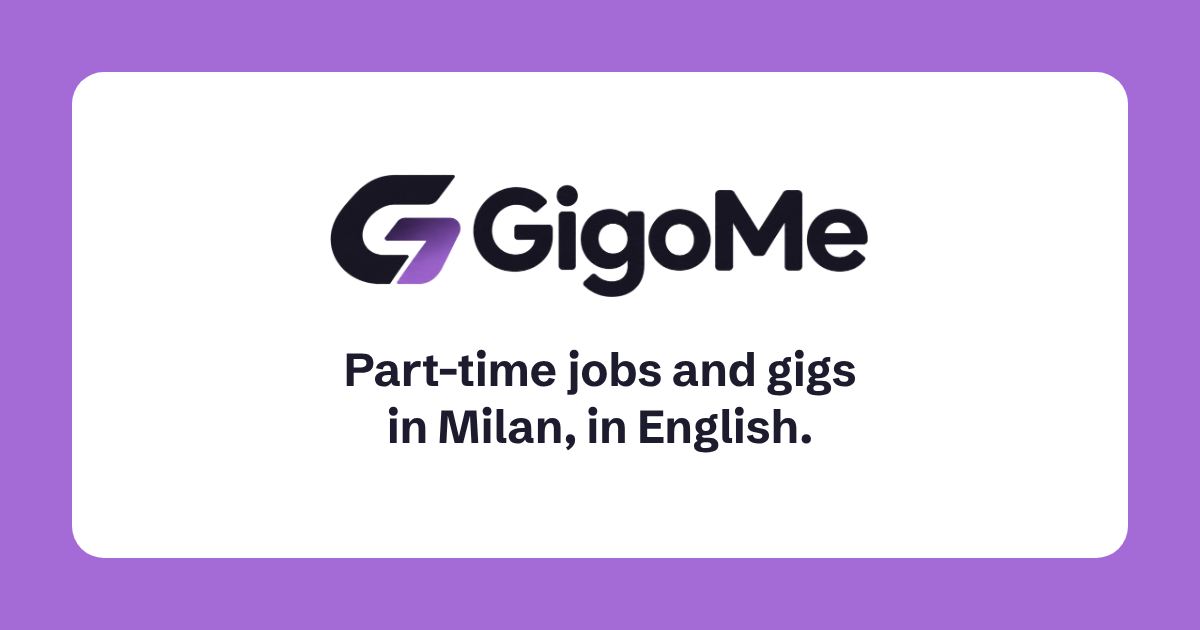
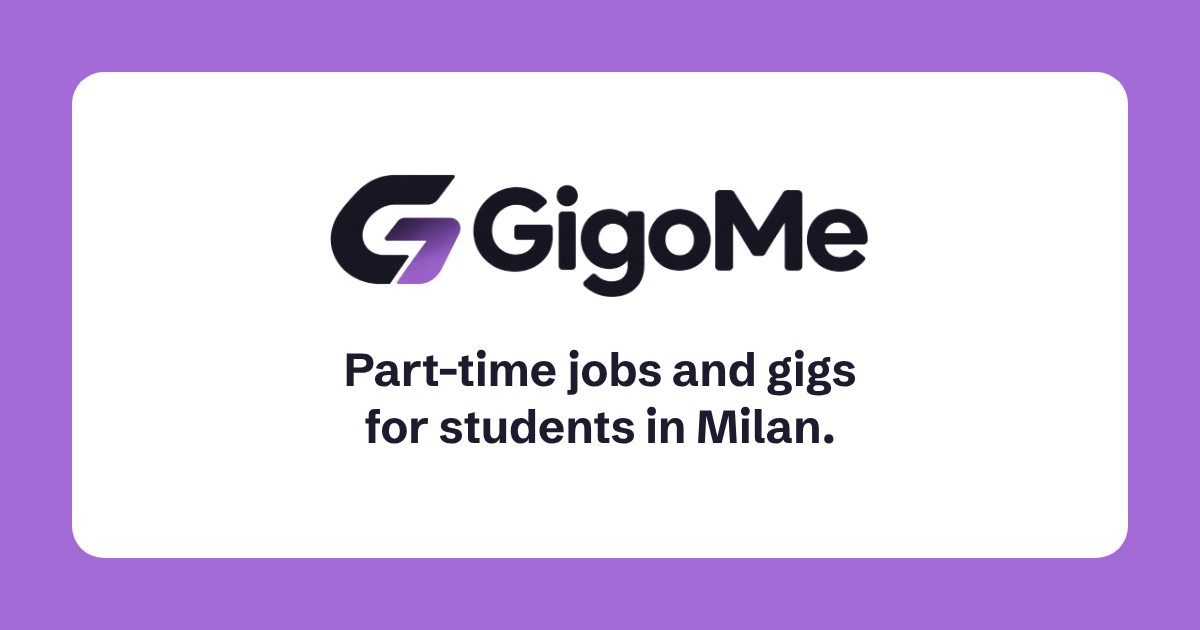
Positioning: GigoMe is for all university students in Milan
GigoMe is for every university student in Milan, not only international
ones or people who don't speak Italian. Jobs that need no Italian stay a
highlighted filter and selling point ("No Italian needed" in the home page
search and on /jobs), not the definition of the platform.

- Tagline: "Part-time jobs and gigs for students in Milan." (home page
  headline, titles, meta and Open Graph tags, the share image, rebuilt
  with scripts/build-og-image.mjs).
- Home page subline, "How it works" step, /how-it-works lead, /jobs lead,
  company page descriptions and search-engine texts no longer say
  "international students" or "in English".
- /employers: "Reach university students in Milan", with no mention of
  language skills.
- Italian translations updated in step; docs/i18n/review-it.csv
  regenerated.
- README: who GigoMe is for, the "Access scope" question marked decided,
  and employers list jobs from their dashboard (not by email). CLAUDE.md:
  the positioning rule and the new tagline.

The legal texts are unchanged.

Claude-Session: https://claude.ai/code/session_01MqGBGxFgcxpd2knq1Qs72a

Changed region(s): [[0.3083, 0.6333, 0.7092, 0.7238]]

diff --git a/tests/e2e/launch.test.js b/tests/e2e/launch.test.js
@@ -59,11 +59,11 @@ async function downloadJson(p, click) {
     };
     await p.goto(E + '/'); await p.waitForTimeout(500);
     let m = await meta();
-    ok(m.title === 'GigoMe: part-time jobs and gigs in Milan, in English' && m.canonical === 'https://gigome.org/' && !m.robots, 'home: title and canonical: ' + JSON.stringify(m));
+    ok(m.title === 'GigoMe: part-time jobs and gigs for students in Milan' && m.canonical === 'https://gigome.org/' && !m.robots, 'home: title and canonical: ' + JSON.stringify(m));
     ok(m.site.length === 1 && JSON.stringify(JSON.parse(m.site[0])) === JSON.stringify({ '@context': 'https://schema.org', '@type': 'WebSite', name: 'GigoMe', url: 'https://gigome.org/' }) && m.ld.length === 0,
       'home: WebSite data with the name GigoMe and https://gigome.org/: ' + JSON.stringify(m.site));
     await p.goto(E + '/jobs?area=3'); await p.waitForSelector('.job-list .role-row'); m = await meta();
-    ok(m.title === 'Jobs in Milan in English | GigoMe' && m.canonical === 'https://gigome.org/jobs' && /Filter by area/.test(m.desc), '/jobs: title, description, canonical without the filters: ' + JSON.stringify(m));
+    ok(m.title === 'Part-time jobs for students in Milan | GigoMe' && m.canonical === 'https://gigome.org/jobs' && /Filter by area/.test(m.desc), '/jobs: title, description, canonical without the filters: ' + JSON.stringify(m));
     await p.goto(E + '/jobs/' + ID(1)); await p.waitForSelector('.facts'); await p.waitForTimeout(300); m = await meta();
     ok(m.title === 'Weekend barista at Nebbia Coffee Bar | GigoMe' && /^Weekend barista at Nebbia Coffee Bar, Milan\. Serve coffee/.test(m.desc), 'job page: title and description: ' + JSON.stringify(m));
     ok(m.ld.length === 1 && m.site.length === 1, 'job page: one JobPosting block, and the WebSite block once');
@@ -79,7 +79,7 @@ async function downloadJson(p, click) {
     await p.goto(E + '/companies/' + NEBBIA.id); await p.waitForSelector('.company-page'); await p.waitForTimeout(300); m = await meta();
     ok(m.title === 'Nebbia Coffee Bar: jobs in Milan | GigoMe' && m.ld.length === 0, 'company page: title, no job data left over: ' + JSON.stringify(m.title));
     await p.goto(E + '/employers'); await p.waitForTimeout(300); m = await meta();
-    ok(m.title === 'Hire international students in Milan | GigoMe', 'employers: title');
+    ok(m.title === 'Reach university students in Milan | GigoMe', 'employers: title');
     ok(m.desc.startsWith('Post paid part-time jobs and gigs') && (await p.innerText('.employers-intro .lead')).includes("We don't list internships or unpaid roles."), 'employers: paid part-time jobs and gigs only, said up front');
     for (const path of ['/', '/jobs']) {
       await p.goto(E + path); await p.waitForTimeout(400); m = await meta();

diff --git a/index.html b/index.html
@@ -5,23 +5,23 @@
 <meta name="viewport" content="width=device-width, initial-scale=1">
 <meta name="theme-color" content="#FFFFFF">
 <title>GigoMe</title>
-<meta name="description" content="Part-time jobs and gigs in Milan, in English. A free, student-run job board for international students.">
+<meta name="description" content="Part-time jobs and gigs for students in Milan. A free, student-run job board for university students, with a filter for jobs that need no Italian.">
 <link rel="icon" href="/favicon.ico" sizes="16x16 32x32 48x48">
 <link rel="icon" type="image/png" sizes="192x192" href="/favicon-192.png">
 <link rel="apple-touch-icon" href="/apple-touch-icon.png">
 <meta property="og:type" content="website">
 <meta property="og:site_name" content="GigoMe">
-<meta property="og:title" content="GigoMe: part-time jobs and gigs in Milan, in English">
-<meta property="og:description" content="A free, student-run job board for international students in Milan. Jobs you can do without fluent Italian.">
+<meta property="og:title" content="GigoMe: part-time jobs and gigs for students in Milan">
+<meta property="og:description" content="A free, student-run job board for university students in Milan. No Italian? Filter for jobs where none is needed.">
 <meta property="og:image" content="https://gigome.org/og-image.png">
 <meta property="og:image:width" content="1200">
 <meta property="og:image:height" content="630">
-<meta property="og:image:alt" content="The GigoMe logo with the line: Part-time jobs and gigs in Milan, in English.">
+<meta property="og:image:alt" content="The GigoMe logo with the line: Part-time jobs and gigs for students in Milan.">
 <meta name="twitter:card" content="summary_large_image">
-<meta name="twitter:title" content="GigoMe: part-time jobs and gigs in Milan, in English">
-<meta name="twitter:description" content="A free, student-run job board for international students in Milan. Jobs you can do without fluent Italian.">
+<meta name="twitter:title" content="GigoMe: part-time jobs and gigs for students in Milan">
+<meta name="twitter:description" content="A free, student-run job board for university students in Milan. No Italian? Filter for jobs where none is needed.">
 <meta name="twitter:image" content="https://gigome.org/og-image.png">
-<meta name="twitter:image:alt" content="The GigoMe logo with the line: Part-time jobs and gigs in Milan, in English.">
+<meta name="twitter:image:alt" content="The GigoMe logo with the line: Part-time jobs and gigs for students in Milan.">
 <script type="application/ld+json">{"@context":"https://schema.org","@type":"WebSite","name":"GigoMe","url":"https://gigome.org/"}</script>
 </head>
 <body data-page="home">

diff --git a/tests/e2e/site.test.js b/tests/e2e/site.test.js
@@ -14,7 +14,7 @@ let fails = 0; const ok = (c, m) => { console.log((c ? 'PASS ' : 'FAIL ') + m); 
     await p.goto(ENV + '/'); await p.waitForTimeout(700);
     const page = await txt(p, 'body');
     ok(await p.locator('.protobar, #map-stage, #jump, #reset-demo, .map-pin').count() === 0 && !/Demo\. Sample data|Jump to|Reset|on the map|★/.test(page), 'no demo bar, map, Jump to, Reset or ratings');
-    ok((await txt(p, 'h1')) === 'Part-time jobs and gigs in Milan, in English.' && (await txt(p, '.hero-lead')) === "For international students who don't speak fluent Italian. Free for students, always.", 'hero headline and subline unchanged');
+    ok((await txt(p, 'h1')) === 'Part-time jobs and gigs for students in Milan.' && (await txt(p, '.hero-lead')) === 'For all university students in Milan, whether or not you speak Italian. Free for students, always.', 'hero headline and subline unchanged');
     ok(await p.locator('.hero select#home-area').count() === 1 && await p.isChecked('.hero input[type=checkbox]') && (await txt(p, '.hero button')) === 'Search jobs', 'hero: keyword, area, "No Italian needed" (on), "Search jobs"');
     ok((await titles(p)).join('|') === 'Weekend barista|Event host|English tutor|Finance assistant|Social media helper' && log.jobs.some((q) => q.includes('limit=5')), 'Newest jobs: the 5 most recently published live jobs, asked for with limit=5: ' + (await titles(p)).join('|'));
     ok(log.jobs.some((q) => new URLSearchParams(q).get('order') === 'is_example.asc,published_at.desc.nullslast,created_at.desc'), 'real listings before examples, then newest = published most recently, then written most recently: ' + log.jobs.map((q) => new URLSearchParams(q).get('order')).join(' '));

diff --git a/README.md b/README.md
@@ -1,31 +1,36 @@
 # GigoMe
 
-**Part-time jobs and gigs in Milan, in English.**
+**Part-time jobs and gigs for students in Milan.**
 
-GigoMe is a job discovery platform for international and English-speaking
-university students in Milan. Employers list English-friendly roles, students
-log in with their university email and apply directly with the employer. It is a
-student-run project built by the GigoMe Venture Studio team. Free for
-students. No monetisation before the platform is useful.
+GigoMe is a job discovery platform for university students in Milan, from
+any university, whether or not they speak Italian. Jobs that need no
+Italian are a highlighted filter ("No Italian needed"), not the limit of
+the platform. Students log in with any email (a university email verifies
+them) and apply directly with the employer. It is a student-run project
+built by the GigoMe Venture Studio team. Free for students. No
+monetisation before the platform is useful.
 
 **Website:** https://gigome.org
 
 ## The problem
 
-International students in Milan often struggle to find flexible,
-student-friendly work. Many opportunities require Italian, and the ones that
-don't are scattered across informal channels: group chats, word of mouth and
-notice boards. At the same time, small businesses that would happily hire an
-English-speaking student have no simple way to reach them.
+Students in Milan often struggle to find flexible, student-friendly work
+that fits around their studies. Opportunities are scattered across
+informal channels: group chats, word of mouth and notice boards. For
+international students it's harder still, since many jobs require
+Italian and the ones that don't are hard to spot. At the same time,
+small businesses that would happily hire a student have no simple way to
+reach them.
 
 ## What GigoMe does
 
-- **For students:** browse paid part-time jobs, gigs and tutoring that
-  don't need Italian, filtered by keyword, job type, remote work, Italian
-  level and hours. No internships and no unpaid roles.
+- **For students:** browse paid part-time jobs, gigs and tutoring,
+  filtered by keyword, area, job type, schedule, pay, hours and how much
+  Italian is needed (including "No Italian needed"). No internships and
+  no unpaid roles.
 - **For employers:** businesses and private people (a family looking for a
-  tutor, someone who needs a dog walker) list roles for free by writing to
-  hello@gigome.org.
+  tutor, someone who needs a dog walker) list roles for free from their
+  own dashboard; a person reviews every company and job first.
 - **Direct contact:** students apply on the employer's site or by email.
   Contracts and pay are agreed directly between them, outside the platform.
 
@@ -88,8 +93,8 @@ Launch with **100+ registered students and 10+ registered companies by
 
 ## Open questions
 
-- **Access scope:** international students only, or open to all students from
-  day one?
+- **Access scope:** decided in November 2026: open to all university
+  students in Milan, with jobs that need no Italian as a highlighted filter.
 - **Student verification:** university email domains plus email
   verification, unless a stronger integration turns out to be needed.
 - **Legal status:** confirm whether registration or other formal steps are

diff --git a/CLAUDE.md b/CLAUDE.md
@@ -207,8 +207,14 @@ Hosted on Cloudflare Workers (static assets) at https://gigome.org, built from
   emailed.
 - Paid part-time jobs and gigs only: no internships and nothing unpaid
   anywhere (job types gig, part-time, other; pay per hour, month or
-  project). The tagline is "Part-time jobs and gigs in Milan, in English."
-  (home page headline, titles, meta and the share image). An older job
+  project). GigoMe is for all university students in Milan, not only
+  international ones or people who don't speak Italian: jobs that need no
+  Italian are a highlighted filter and selling point ("No Italian needed"
+  in the home page search and on /jobs), never the definition of the
+  platform, and the employer pitch ("Reach university students in Milan")
+  doesn't mention language skills. The tagline is "Part-time jobs and gigs
+  for students in Milan." (home page headline, titles, meta and the share
+  image). An older job
   with `internship` or `unpaid_curricular` shows no type and "Pay not
   listed", and the job form starts both fields empty so the owner chooses
   again.
